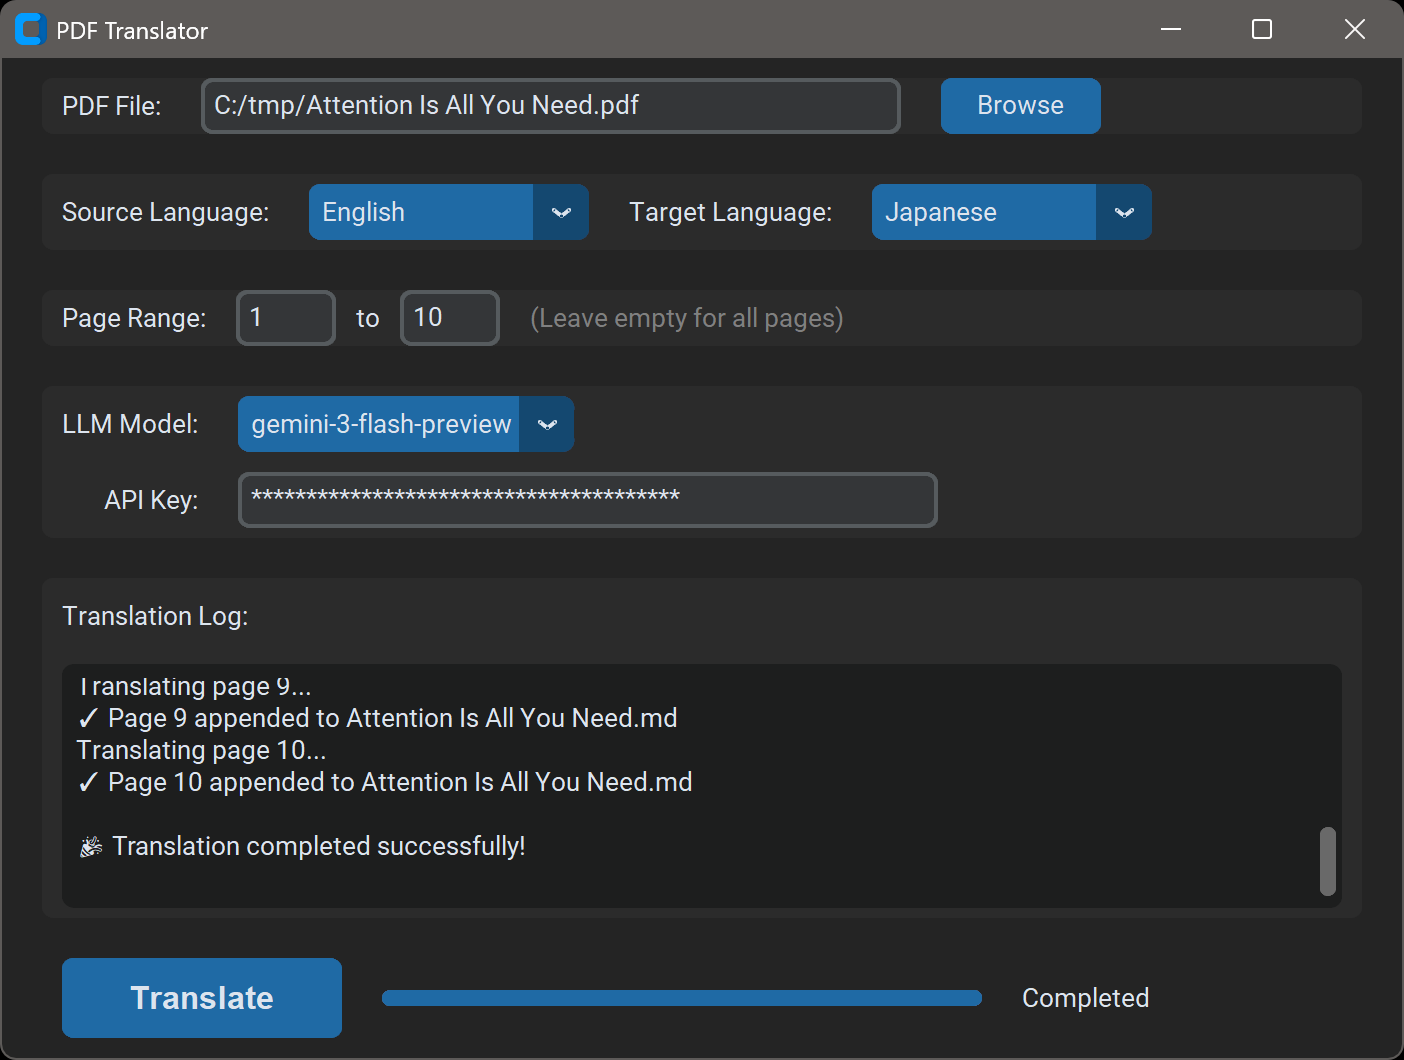
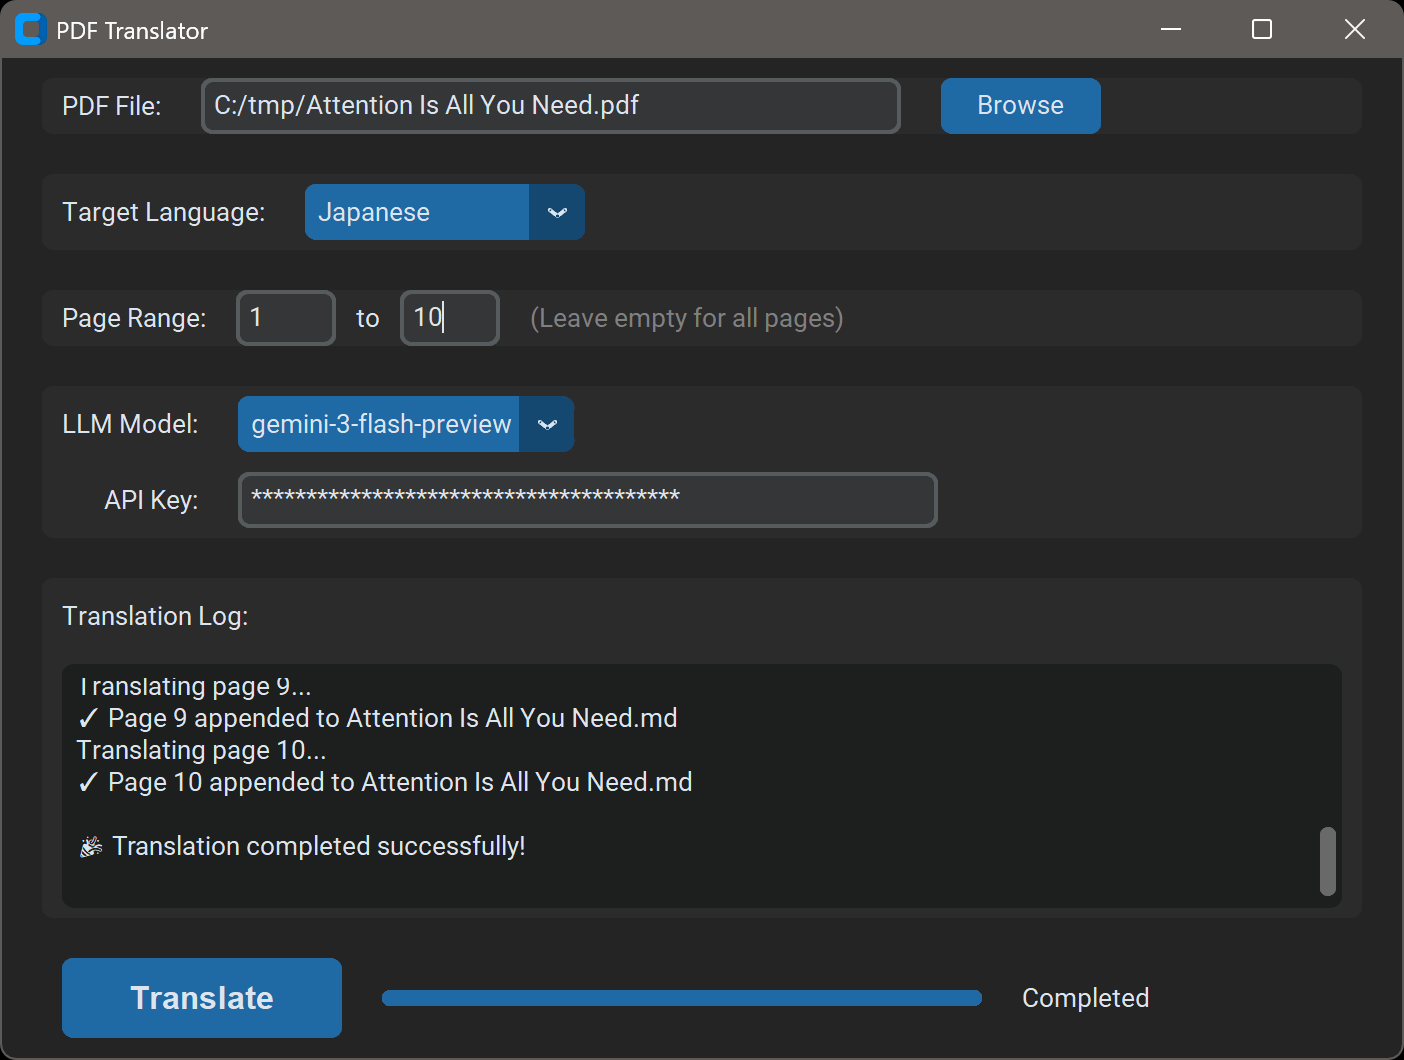
未使用の翻訳元の言語をユーザーインターフェースから削除しました。

diff --git a/src/app.py b/src/app.py
@@ -50,23 +50,14 @@ class PDFTranslatorApp(ctk.CTk):
         self.lang_frame = ctk.CTkFrame(self)
         self.lang_frame.pack(pady=10, padx=20, fill="x")
 
-        self.src_lang_label = ctk.CTkLabel(self.lang_frame, text="Source Language:")
-        self.src_lang_label.grid(row=0, column=0, padx=10, pady=5, sticky="e")
-
-        self.src_lang_var = ctk.StringVar(value="English")
-        self.src_lang_menu = ctk.CTkOptionMenu(
-            self.lang_frame, variable=self.src_lang_var, values=["English", "Japanese"]
-        )
-        self.src_lang_menu.grid(row=0, column=1, padx=10, pady=5, sticky="w")
-
         self.tgt_lang_label = ctk.CTkLabel(self.lang_frame, text="Target Language:")
-        self.tgt_lang_label.grid(row=0, column=2, padx=10, pady=5, sticky="e")
+        self.tgt_lang_label.grid(row=0, column=0, padx=10, pady=5, sticky="e")
 
         self.tgt_lang_var = ctk.StringVar(value="Japanese")
         self.tgt_lang_menu = ctk.CTkOptionMenu(
             self.lang_frame, variable=self.tgt_lang_var, values=["Japanese", "English"]
         )
-        self.tgt_lang_menu.grid(row=0, column=3, padx=10, pady=5, sticky="w")
+        self.tgt_lang_menu.grid(row=0, column=1, padx=10, pady=5, sticky="w")
 
         # 3. Page Range
         self.page_frame = ctk.CTkFrame(self)
@@ -163,7 +154,6 @@ class PDFTranslatorApp(ctk.CTk):
         self.status_label.pack(side="left", padx=10)
 
     def _load_config(self):
-        self.src_lang_var.set(self.config_manager.get("source_language", "English"))
         self.tgt_lang_var.set(self.config_manager.get("target_language", "Japanese"))
 
         saved_model = self.config_manager.get("selected_model", "gpt-5-mini")
@@ -179,7 +169,6 @@ class PDFTranslatorApp(ctk.CTk):
             self.api_key_var.set("")
 
     def _save_current_config(self):
-        self.config_manager.set("source_language", self.src_lang_var.get())
         self.config_manager.set("target_language", self.tgt_lang_var.get())
 
         current_model = self.model_var.get()

diff --git a/tests/test_config_manager.py b/tests/test_config_manager.py
@@ -15,7 +15,6 @@ def mock_config_dir(tmp_path):
 
 def test_config_initialization_defaults(mock_config_dir):
     config = ConfigManager()
-    assert config.get("source_language") == "English"
     assert config.get("target_language") == "Japanese"
     assert config.get("selected_model") == "gemini-3-flash-preview"
     assert config.get("last_opened_folder") == ""
@@ -48,7 +47,7 @@ def test_config_load_existing(mock_config_dir):
     config = ConfigManager()
     assert config.get("last_opened_folder") == "/path/to/my/docs"
     # Defaults should still be present for missing keys
-    assert config.get("source_language") == "English"
+    assert config.get("target_language") == "Japanese"
 
 
 @patch("config_manager.keyring.get_password")

diff --git a/src/config_manager.py b/src/config_manager.py
@@ -34,7 +34,6 @@ class ConfigManager:
     def _load_config(self) -> Dict[str, Any]:
         default_config = {
             "last_opened_folder": "",
-            "source_language": "English",
             "target_language": "Japanese",
             "selected_model": "gemini-3-flash-preview",
         }

diff --git a/docs/開発仕様書.md b/docs/開発仕様書.md
@@ -33,7 +33,6 @@
 以下の要素を配置する。
 1.  **PDFファイル選択:** パソコン内のPDFファイルを参照して選択するボタンとパス表示欄。
 2.  **言語選択:**
-    *   翻訳元 (Source): 英語 (デフォルト) / 日本語
     *   翻訳先 (Target): 日本語 (デフォルト) / 英語
 3.  **ページ範囲指定:** 開始ページと終了ページを入力（デフォルトは最初から最後まで）。
 4.  **LLMモデル選択:**
@@ -44,7 +43,7 @@
 
 ### 4.3. 設定の永続化
 前回の入力を保存し、次回起動時に復元する。
-*   **保存対象:** 前回開いたフォルダパス、翻訳元の言語、翻訳先の言語、選択されたLLMモデル、APIキー。
+*   **保存対象:** 前回開いたフォルダパス、翻訳先の言語、選択されたLLMモデル、APIキー。
 *   APIキーはOSのセキュアな領域に保存し、平文のファイルには書き出さない。
 
 ---
